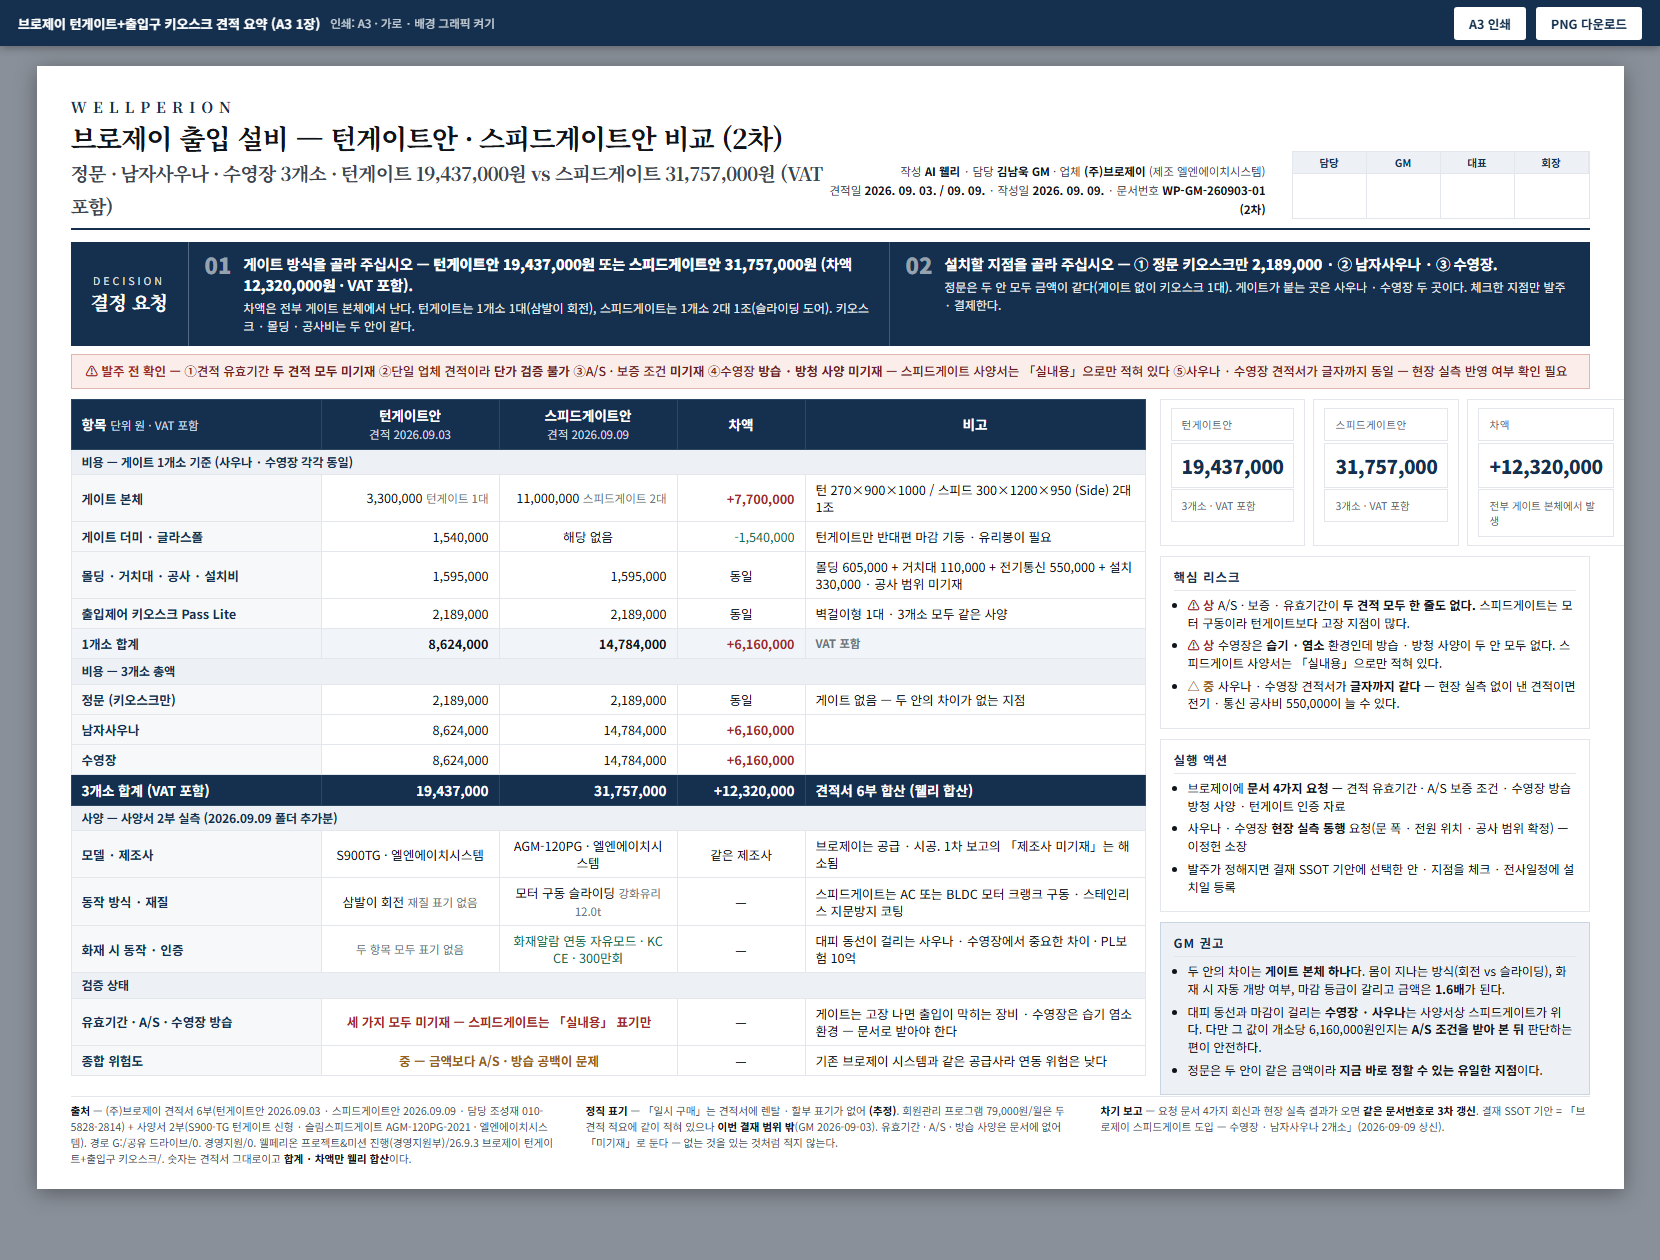
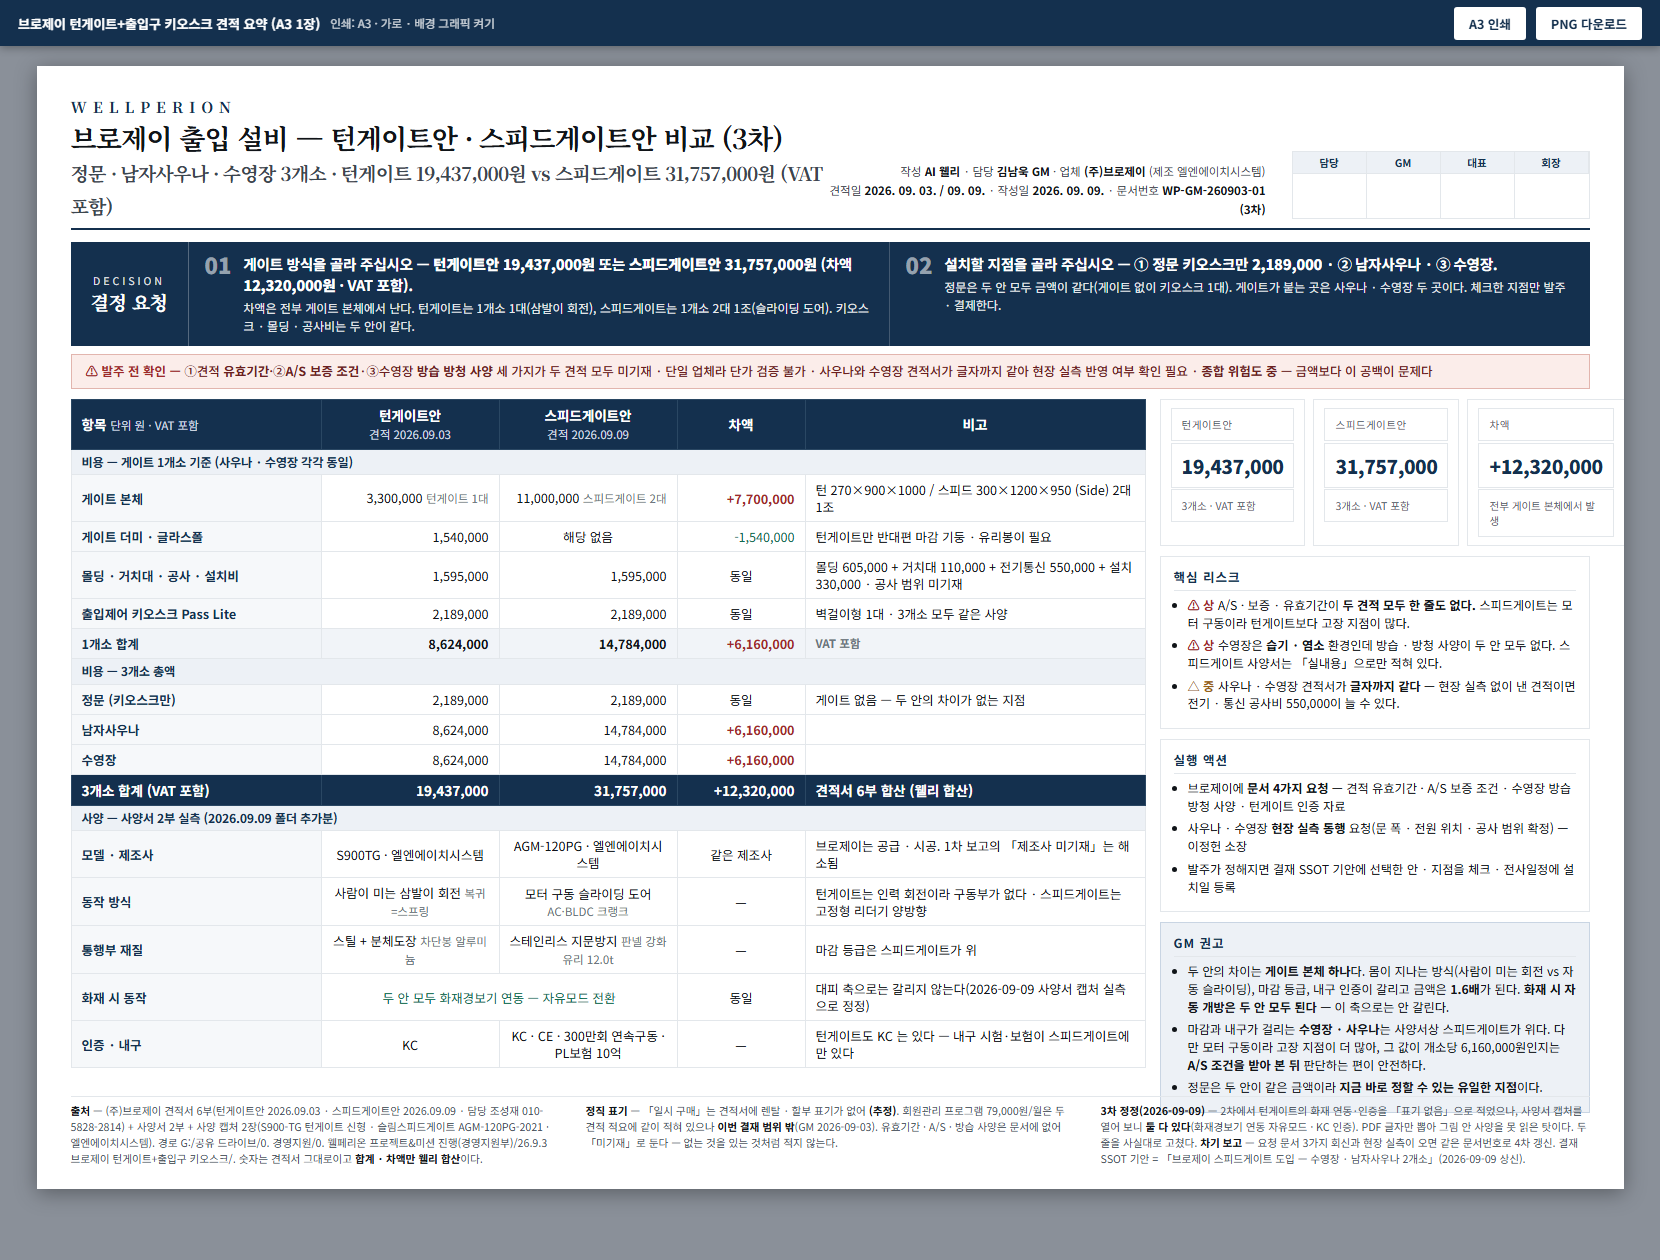
docs(gm): 브로제이 A3 3차 정정 — 사양서 캡처 실측으로 턴게이트 화재연동·KC 인증 확인 (WP-GM-260903-01)

diff --git a/3. 웰페리온 가이드/reports/260903_브로제이_턴게이트키오스크_견적요약_A3.html b/3. 웰페리온 가이드/reports/260903_브로제이_턴게이트키오스크_견적요약_A3.html
@@ -83,11 +83,11 @@
   <div class="head">
     <div>
       <div class="brand">WELLPERION</div>
-      <div class="title">브로제이 출입 설비 — 턴게이트안 · 스피드게이트안 비교 (2차)<br><span style="font-size:19px;color:#3C464F">정문 · 남자사우나 · 수영장 3개소 · 턴게이트 19,437,000원 vs 스피드게이트 31,757,000원 (VAT 포함)</span></div>
+      <div class="title">브로제이 출입 설비 — 턴게이트안 · 스피드게이트안 비교 (3차)<br><span style="font-size:19px;color:#3C464F">정문 · 남자사우나 · 수영장 3개소 · 턴게이트 19,437,000원 vs 스피드게이트 31,757,000원 (VAT 포함)</span></div>
     </div>
     <div class="meta">
       작성 <b>AI 웰리</b> · 담당 <b>김남욱 GM</b> · 업체 <b>(주)브로제이</b> (제조 엘엔에이치시스템)<br>
-      견적일 <b>2026. 09. 03. / 09. 09.</b> · 작성일 <b>2026. 09. 09.</b> · 문서번호 <b>WP-GM-260903-01 (2차)</b>
+      견적일 <b>2026. 09. 03. / 09. 09.</b> · 작성일 <b>2026. 09. 09.</b> · 문서번호 <b>WP-GM-260903-01 (3차)</b>
     </div>
     <div class="sign">
       <div><div class="t">담당</div><div class="b"></div></div>
@@ -104,7 +104,7 @@
       <div class="it"><div class="n">02</div><div><div class="q">설치할 지점을 골라 주십시오 — ① 정문 키오스크만 <b>2,189,000</b> · ② 남자사우나 · ③ 수영장.</div><div class="d">정문은 두 안 모두 금액이 같다(게이트 없이 키오스크 1대). 게이트가 붙는 곳은 사우나 · 수영장 두 곳이다. 체크한 지점만 발주 · 결제한다.</div></div></div>
     </div>
   </div>
-  <div class="alert">⚠ 발주 전 확인 — <span>①견적 유효기간 <b>두 견적 모두 미기재</b> ②단일 업체 견적이라 <b>단가 검증 불가</b> ③A/S · 보증 조건 <b>미기재</b> ④수영장 <b>방습 · 방청 사양 미기재</b> — 스피드게이트 사양서는 「실내용」으로만 적혀 있다 ⑤사우나 · 수영장 견적서가 글자까지 동일 — 현장 실측 반영 여부 확인 필요</span></div>
+  <div class="alert">⚠ 발주 전 확인 — <span>①견적 <b>유효기간</b>·②<b>A/S 보증 조건</b>·③수영장 <b>방습 방청 사양</b> 세 가지가 두 견적 모두 미기재 · 단일 업체라 단가 검증 불가 · 사우나와 수영장 견적서가 글자까지 같아 현장 실측 반영 여부 확인 필요 · <b>종합 위험도 중</b> — 금액보다 이 공백이 문제다</span></div>
 
   <div class="main">
     <div class="tblcol" style="flex:1; min-width:0;">
@@ -124,11 +124,10 @@
           <tr class="total"><td class="k" style="background:var(--navy);color:#fff">3개소 합계 (VAT 포함)</td><td class="n">19,437,000</td><td class="n">31,757,000</td><td class="n bad">+12,320,000</td><td>견적서 6부 합산 (웰리 합산)</td></tr>
           <tr class="grp"><td colspan="5">사양 — 사양서 2부 실측 (2026.09.09 폴더 추가분)</td></tr>
           <tr><td class="k">모델 · 제조사</td><td class="c">S900TG · 엘엔에이치시스템</td><td class="c">AGM-120PG · 엘엔에이치시스템</td><td class="c">같은 제조사</td><td>브로제이는 공급 · 시공. 1차 보고의 「제조사 미기재」는 해소됨</td></tr>
-          <tr><td class="k">동작 방식 · 재질</td><td class="c">삼발이 회전 <span class="dim">재질 표기 없음</span></td><td class="c">모터 구동 슬라이딩 <span class="dim">강화유리 12.0t</span></td><td class="c">—</td><td>스피드게이트는 AC 또는 BLDC 모터 크랭크 구동 · 스테인리스 지문방지 코팅</td></tr>
-          <tr><td class="k">화재 시 동작 · 인증</td><td class="c dim">두 항목 모두 표기 없음</td><td class="c" style="color:#146B4F">화재알람 연동 자유모드 · KC CE · 300만회</td><td class="c">—</td><td>대피 동선이 걸리는 사우나 · 수영장에서 중요한 차이 · PL보험 10억</td></tr>
-          <tr class="grp"><td colspan="5">검증 상태</td></tr>
-          <tr><td class="k">유효기간 · A/S · 수영장 방습</td><td colspan="2" class="c bad">세 가지 모두 미기재 — 스피드게이트는 「실내용」 표기만</td><td class="c">—</td><td>게이트는 고장 나면 출입이 막히는 장비 · 수영장은 습기 염소 환경 — 문서로 받아야 한다</td></tr>
-          <tr><td class="k">종합 위험도</td><td colspan="2" class="c warn">중 — 금액보다 A/S · 방습 공백이 문제</td><td class="c">—</td><td>기존 브로제이 시스템과 같은 공급사라 연동 위험은 낮다</td></tr>
+          <tr><td class="k">동작 방식</td><td class="c">사람이 미는 삼발이 회전 <span class="dim">복귀=스프링</span></td><td class="c">모터 구동 슬라이딩 도어 <span class="dim">AC·BLDC 크랭크</span></td><td class="c">—</td><td>턴게이트는 인력 회전이라 구동부가 없다 · 스피드게이트는 고정형 리더기 양방향</td></tr>
+          <tr><td class="k">통행부 재질</td><td class="c">스틸 + 분체도장 <span class="dim">차단봉 알루미늄</span></td><td class="c">스테인리스 지문방지 <span class="dim">판넬 강화유리 12.0t</span></td><td class="c">—</td><td>마감 등급은 스피드게이트가 위</td></tr>
+          <tr><td class="k">화재 시 동작</td><td colspan="2" class="c" style="color:#146B4F">두 안 모두 화재경보기 연동 — 자유모드 전환</td><td class="c">동일</td><td>대피 축으로는 갈리지 않는다(2026-09-09 사양서 캡처 실측으로 정정)</td></tr>
+          <tr><td class="k">인증 · 내구</td><td class="c">KC</td><td class="c">KC · CE · 300만회 연속구동 · PL보험 10억</td><td class="c">—</td><td>턴게이트도 KC 는 있다 — 내구 시험·보험이 스피드게이트에만 있다</td></tr>
         </tbody>
       </table>
     </div>
@@ -158,8 +157,8 @@
       <div class="box rec">
         <h3>GM 권고</h3>
         <ul>
-          <li>두 안의 차이는 <b>게이트 본체 하나</b>다. 몸이 지나는 방식(회전 vs 슬라이딩), 화재 시 자동 개방 여부, 마감 등급이 갈리고 금액은 <b>1.6배</b>가 된다.</li>
-          <li>대피 동선과 마감이 걸리는 <b>수영장 · 사우나</b>는 사양서상 스피드게이트가 위다. 다만 그 값이 개소당 6,160,000원인지는 <b>A/S 조건을 받아 본 뒤</b> 판단하는 편이 안전하다.</li>
+          <li>두 안의 차이는 <b>게이트 본체 하나</b>다. 몸이 지나는 방식(사람이 미는 회전 vs 자동 슬라이딩), 마감 등급, 내구 인증이 갈리고 금액은 <b>1.6배</b>가 된다. <b>화재 시 자동 개방은 두 안 모두 된다</b> — 이 축으로는 안 갈린다.</li>
+          <li>마감과 내구가 걸리는 <b>수영장 · 사우나</b>는 사양서상 스피드게이트가 위다. 다만 모터 구동이라 고장 지점이 더 많아, 그 값이 개소당 6,160,000원인지는 <b>A/S 조건을 받아 본 뒤</b> 판단하는 편이 안전하다.</li>
           <li>정문은 두 안이 같은 금액이라 <b>지금 바로 정할 수 있는 유일한 지점</b>이다.</li>
         </ul>
       </div>
@@ -167,9 +166,9 @@
   </div>
 
   <div class="foot">
-    <div><b>출처</b> — (주)브로제이 견적서 6부(턴게이트안 2026.09.03 · 스피드게이트안 2026.09.09 · 담당 조성재 010-5828-2814) + 사양서 2부(S900-TG 턴게이트 신형 · 슬림스피드게이트 AGM-120PG-2021 · 엘엔에이치시스템). 경로 G:/공유 드라이브/0. 경영지원/0. 웰페리온 프로젝트&amp;미션 진행(경영지원부)/26.9.3 브로제이 턴게이트+출입구 키오스크/. 숫자는 견적서 그대로이고 <b>합계 · 차액만 웰리 합산</b>이다.</div>
+    <div><b>출처</b> — (주)브로제이 견적서 6부(턴게이트안 2026.09.03 · 스피드게이트안 2026.09.09 · 담당 조성재 010-5828-2814) + 사양서 2부 + 사양 캡처 2장(S900-TG 턴게이트 신형 · 슬림스피드게이트 AGM-120PG-2021 · 엘엔에이치시스템). 경로 G:/공유 드라이브/0. 경영지원/0. 웰페리온 프로젝트&amp;미션 진행(경영지원부)/26.9.3 브로제이 턴게이트+출입구 키오스크/. 숫자는 견적서 그대로이고 <b>합계 · 차액만 웰리 합산</b>이다.</div>
     <div><b>정직 표기</b> — 「일시 구매」는 견적서에 렌탈 · 할부 표기가 없어 <b>(추정)</b>. 회원관리 프로그램 79,000원/월은 두 견적 적요에 같이 적혀 있으나 <b>이번 결재 범위 밖</b>(GM 2026-09-03). 유효기간 · A/S · 방습 사양은 문서에 없어 「미기재」로 둔다 — 없는 것을 있는 것처럼 적지 않는다.</div>
-    <div><b>차기 보고</b> — 요청 문서 4가지 회신과 현장 실측 결과가 오면 <b>같은 문서번호로 3차 갱신</b>. 결재 SSOT 기안 = 「브로제이 스피드게이트 도입 — 수영장 · 남자사우나 2개소」(2026-09-09 상신).</div>
+    <div><b>3차 정정(2026-09-09)</b> — 2차에서 턴게이트의 화재 연동·인증을 「표기 없음」으로 적었으나, 사양서 캡처를 열어 보니 <b>둘 다 있다</b>(화재경보기 연동 자유모드 · KC 인증). PDF 글자만 뽑아 그림 안 사양을 못 읽은 탓이다. 두 줄을 사실대로 고쳤다. <b>차기 보고</b> — 요청 문서 3가지 회신과 현장 실측이 오면 같은 문서번호로 4차 갱신. 결재 SSOT 기안 = 「브로제이 스피드게이트 도입 — 수영장 · 남자사우나 2개소」(2026-09-09 상신).</div>
   </div>
 </div>
 <script src="https://cdnjs.cloudflare.com/ajax/libs/html2canvas/1.4.1/html2canvas.min.js"></script>
